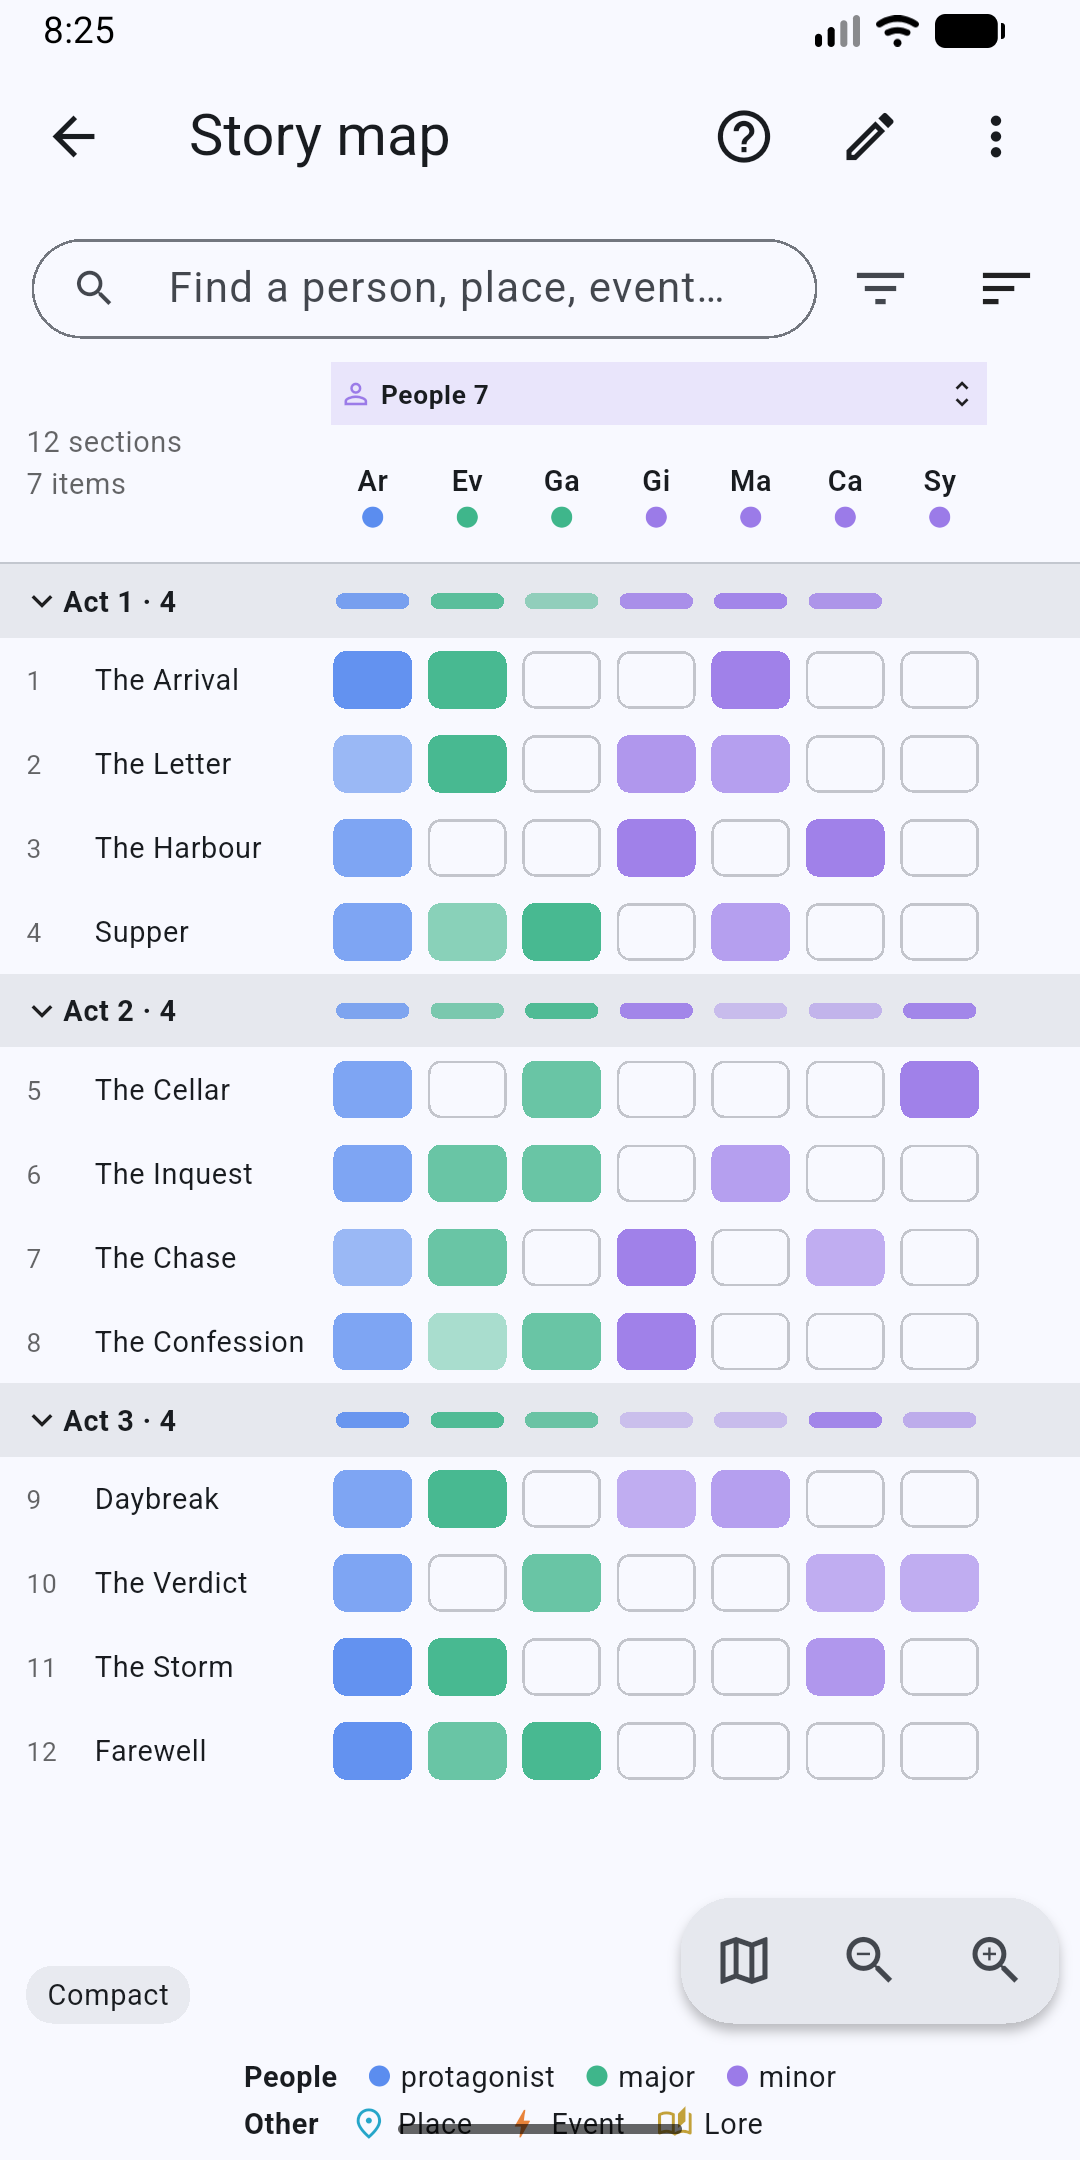
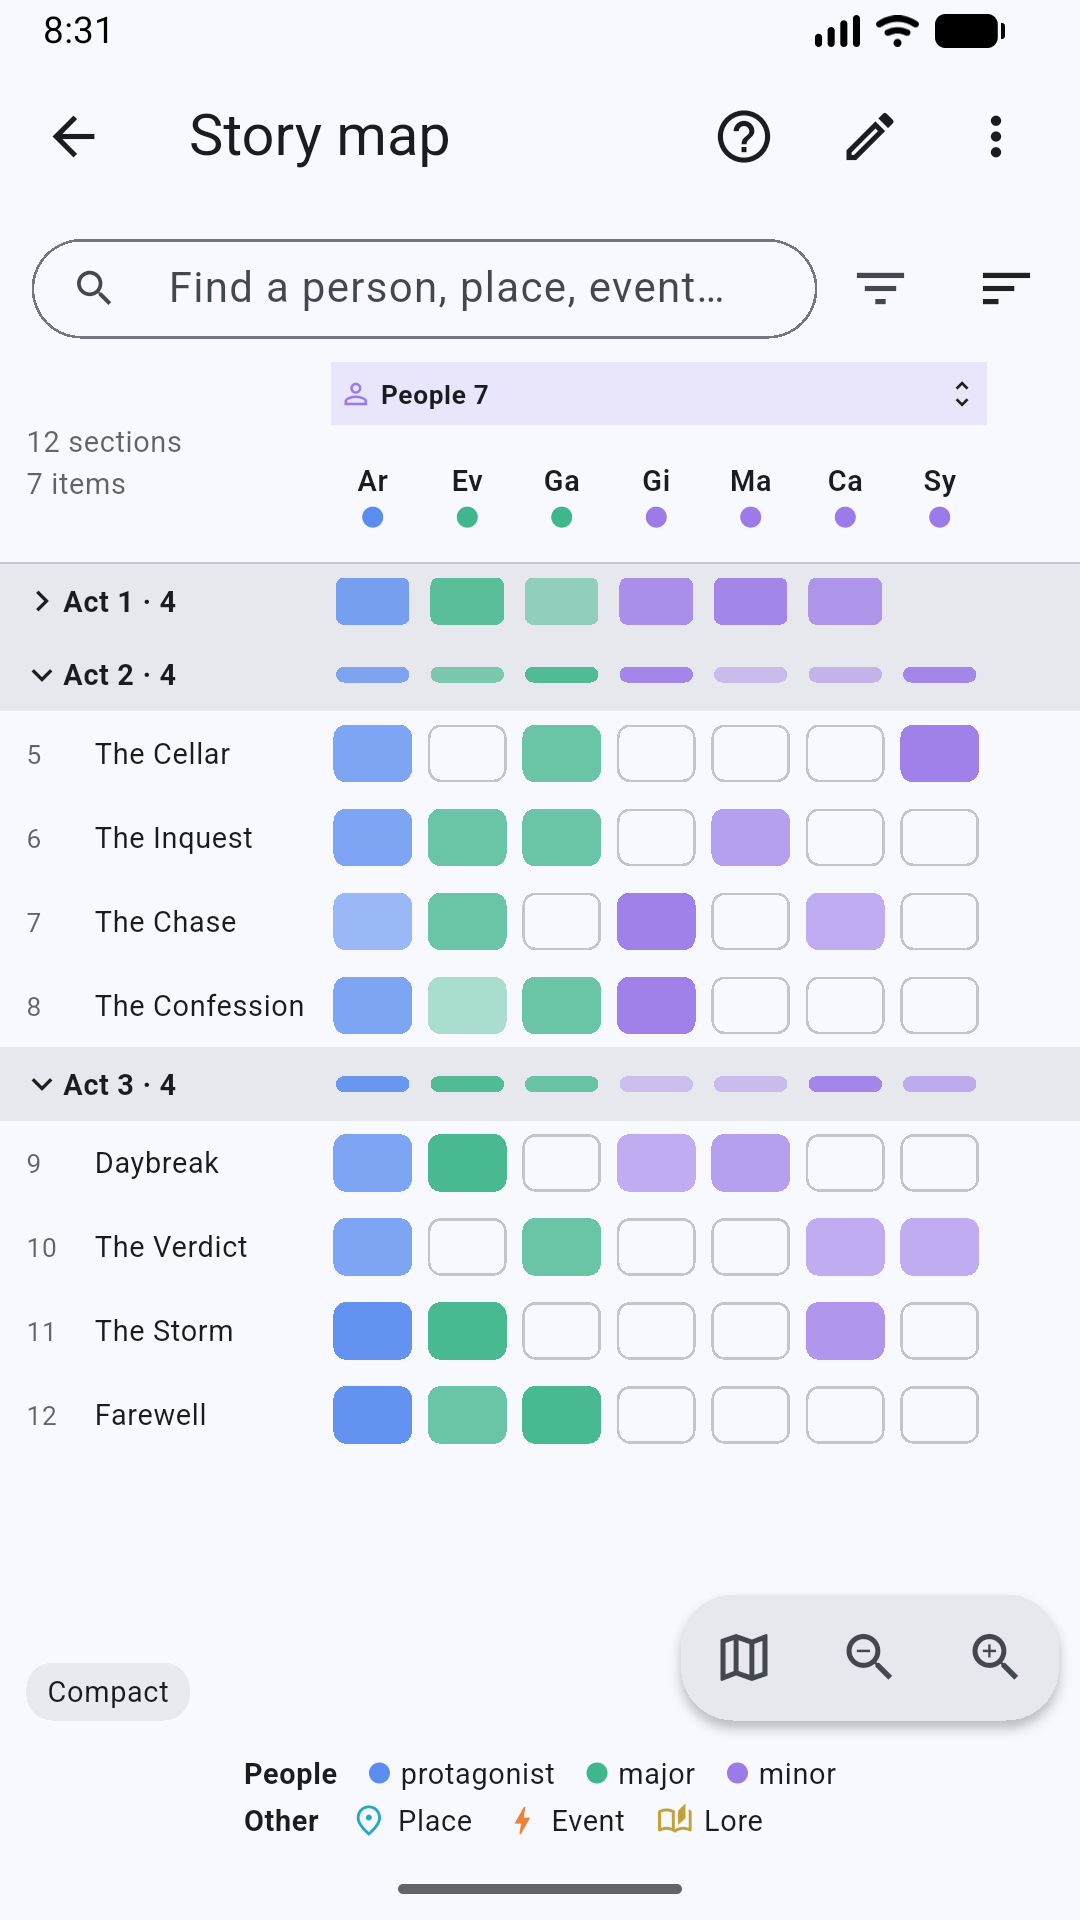
fix: story map grid clears the zoom pill and the gesture bar; 9:16 store screenshots

diff --git a/lib/widgets/story_map/timeline_grid.dart b/lib/widgets/story_map/timeline_grid.dart
@@ -288,6 +288,7 @@ class _TimelineGridState extends State<TimelineGrid> {
           Expanded(
             child: ListView.builder(
               controller: _vc,
+              padding: const EdgeInsets.only(bottom: 56), // lets the last rows scroll clear of the zoom pill
               itemCount: items.length,
               itemExtentBuilder: (i, _) => items[i].$1 ? 28 : d.rowH,
               itemBuilder: (_, i) => items[i].$1 ? actRow(items[i].$2) : unitRow(items[i].$2),
@@ -356,6 +357,7 @@ class _TimelineGridState extends State<TimelineGrid> {
               style: const TextStyle(fontSize: 12, color: storyWarn)),
         ),
       Padding(padding: EdgeInsets.fromLTRB(16, 4, widget.editing ? 80 : 16, 6), child: storyLegend(s)),
+      SizedBox(height: MediaQuery.paddingOf(context).bottom), // clear of the gesture bar
     ]);
   }
 }
